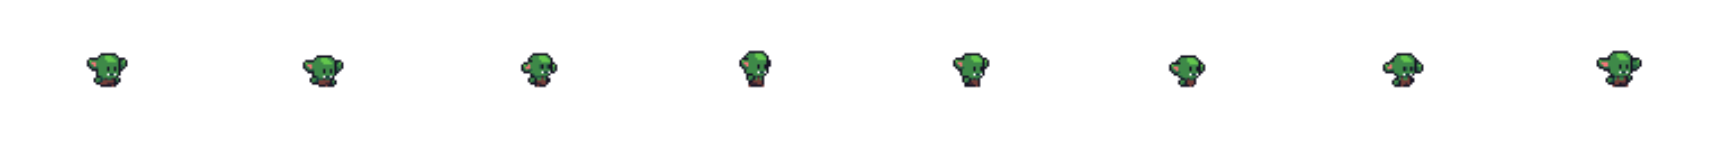
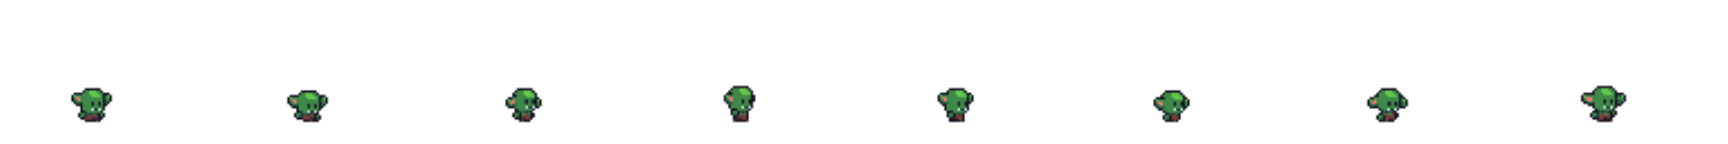
:zap: feat: 메인페이지 몬스터 이미지 수정 및 몬스터 이름 출력

diff --git a/frontend/kingmaker/lib/widget/main/main_monster.dart b/frontend/kingmaker/lib/widget/main/main_monster.dart
@@ -38,12 +38,25 @@ class Monster extends SpriteAnimationComponent with TapCallbacks {
     this.animation = animation;
     this.size = spriteSize;
     monsterPosition = parent as MonsterPosition;
-    textComponent=TextComponent(text: "${monsterInfo['todo_nm']}");
+    textComponent=TextComponent(
+        text: "${monsterInfo['todo_nm']}",
+        textRenderer: TextPaint(
+          style:TextStyle(
+            fontFamily: 'PretendardBold',
+            color: Colors.red,
+            fontSize: 18,
+            backgroundColor: Colors.black38,
+          ),
+        )
+    );
     await textComponent.onLoad();
     final textWidth = textComponent.width;
-    textComponent.position.setValues((size.x / 2.3) - (textWidth / 2.1),
-        size.y-55);
-    // add(textComponent);
+    textComponent.position.setValues((size.x / 2.3) - (textWidth / 2.0),
+        size.y-20);
+    position=Vector2(77, 0);
+    // textComponent.position.setValues(77,
+    //     108);
+    add(textComponent);
   }
 
   Rect toRect() {
@@ -70,7 +83,7 @@ class Monster extends SpriteAnimationComponent with TapCallbacks {
       image: spriteImage,
       srcSize: spriteSize,
     );
-    final animation = spriteSheet.createAnimation(row: 0, stepTime: 0.5);
+    final animation = spriteSheet.createAnimation(row: 0, stepTime: 0.1);
     this.animation = animation;
   }
 }

diff --git a/frontend/kingmaker/lib/widget/main/main_castle.dart b/frontend/kingmaker/lib/widget/main/main_castle.dart
@@ -1,5 +1,6 @@
 import 'package:flame/components.dart';
 import 'package:flame/text.dart';
+import 'package:flutter/material.dart';
 import 'package:kingmaker/widget/main/main_game.dart';
 
 class Castle extends SpriteComponent {
@@ -13,7 +14,16 @@ class Castle extends SpriteComponent {
     super.onLoad(); // 상위 클래스의 onLoad 호출
     sprite = await Sprite.load('castle/Lv${level['level']}.png');
 
-    textComponent=TextComponent(text: "Lv.${level['level']} dsds겁쟁이 쉼터",textRenderer: TextPaint(style:TextStyle(fontFamily: 'PretendarBold')));
+    textComponent=TextComponent(
+        text: "Lv.${level['level']} dsds겁쟁이 쉼터",
+        textRenderer: TextPaint(
+            style:TextStyle(
+              fontFamily: 'PretendardBold',
+              fontSize: 25,
+              backgroundColor: Colors.black38,
+            ),
+        )
+    );
     await textComponent.onLoad();
     final textWidth = textComponent.width;
     if(level['level']=='1'||level['level']=='2'){

diff --git a/frontend/kingmaker/lib/widget/main/main_player.dart b/frontend/kingmaker/lib/widget/main/main_player.dart
@@ -1,7 +1,10 @@
 
+
+import 'package:flame/text.dart';
 import 'package:flame/components.dart';
 import 'package:flame/events.dart';
 import 'package:flame/sprite.dart';
+import 'package:flutter/material.dart';
 
 import 'package:kingmaker/widget/main/main_game.dart';
 
@@ -19,7 +22,17 @@ class MainPlayer extends SpriteComponent with TapCallbacks {
       sprite = await Sprite.load('male.png');
       size = Vector2(65,110);
       position = Vector2(452, 300);
-      textComponent=TextComponent(text: "엄준식");
+      textComponent=TextComponent(
+          text: "엄준식",
+          textRenderer: TextPaint(
+            style:TextStyle(
+              fontFamily: 'PretendardBold',
+              fontSize: 20,
+              backgroundColor: Colors.black38,
+
+            ),
+          )
+      );
       await textComponent.onLoad();
       final textWidth = textComponent.width;
       textComponent.position.setValues((size.x / 2) - (textWidth / 2),

diff --git a/frontend/kingmaker/lib/widget/main/main_monster_position.dart b/frontend/kingmaker/lib/widget/main/main_monster_position.dart
@@ -20,7 +20,7 @@ class MonsterPosition extends PositionComponent {
   Map<String, String> monsterInfo;
   MonsterPosition(this.game, this.monsterInfo) {
     setRandomVelocity();
-    this.size = Vector2(240,216);
+    this.size = Vector2(144,144);
   }
   late Monster monster;
   late MonsterText monsterText;
